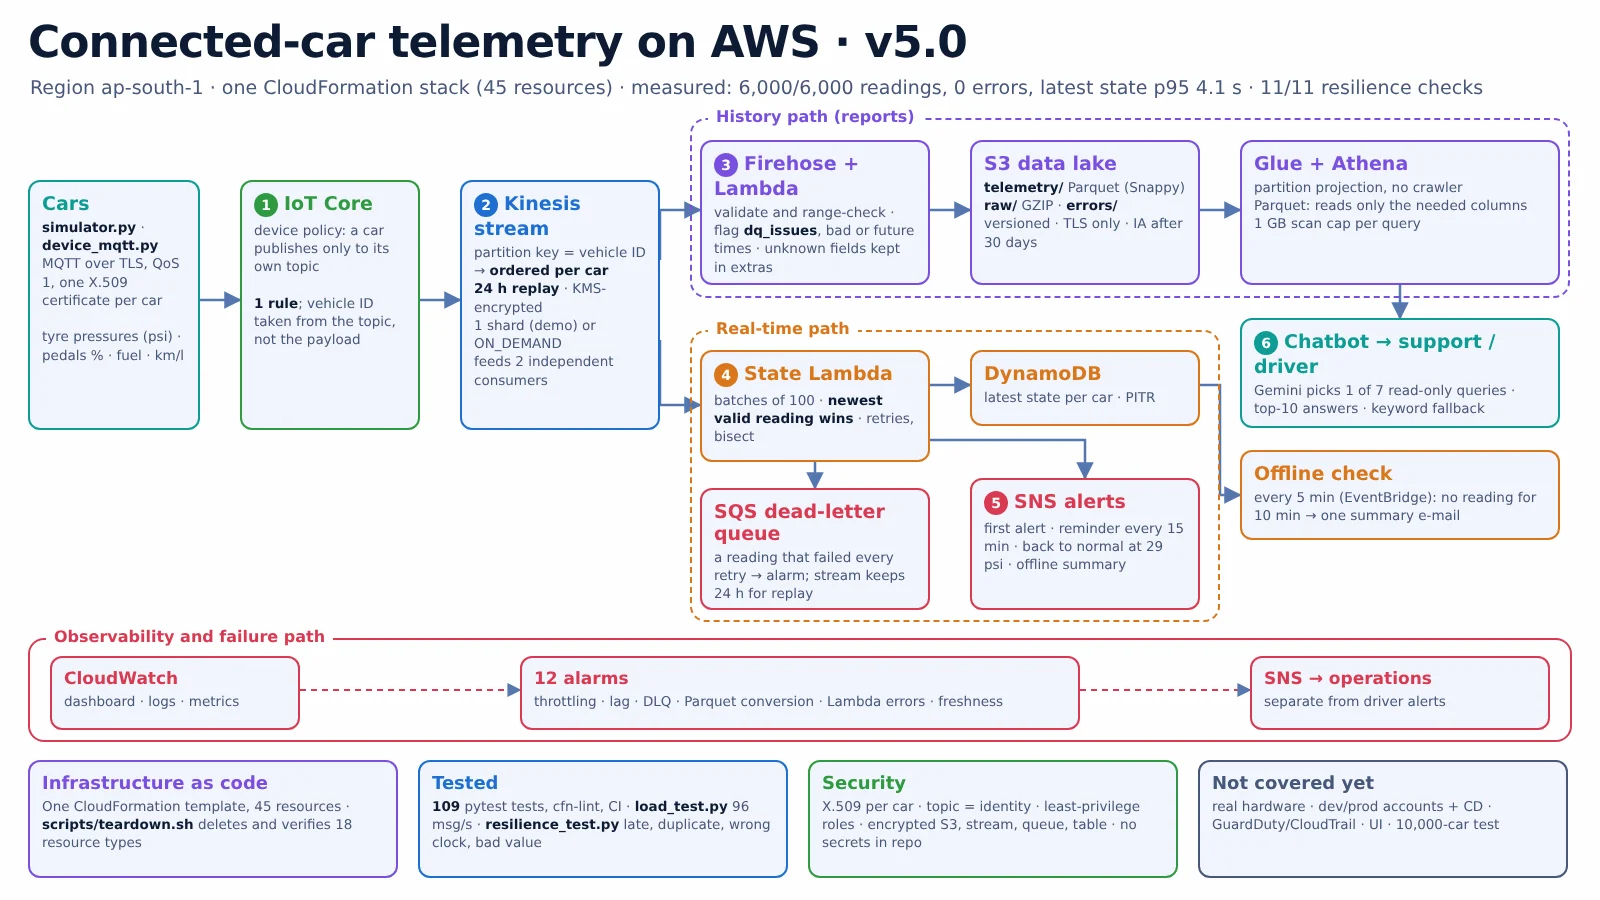
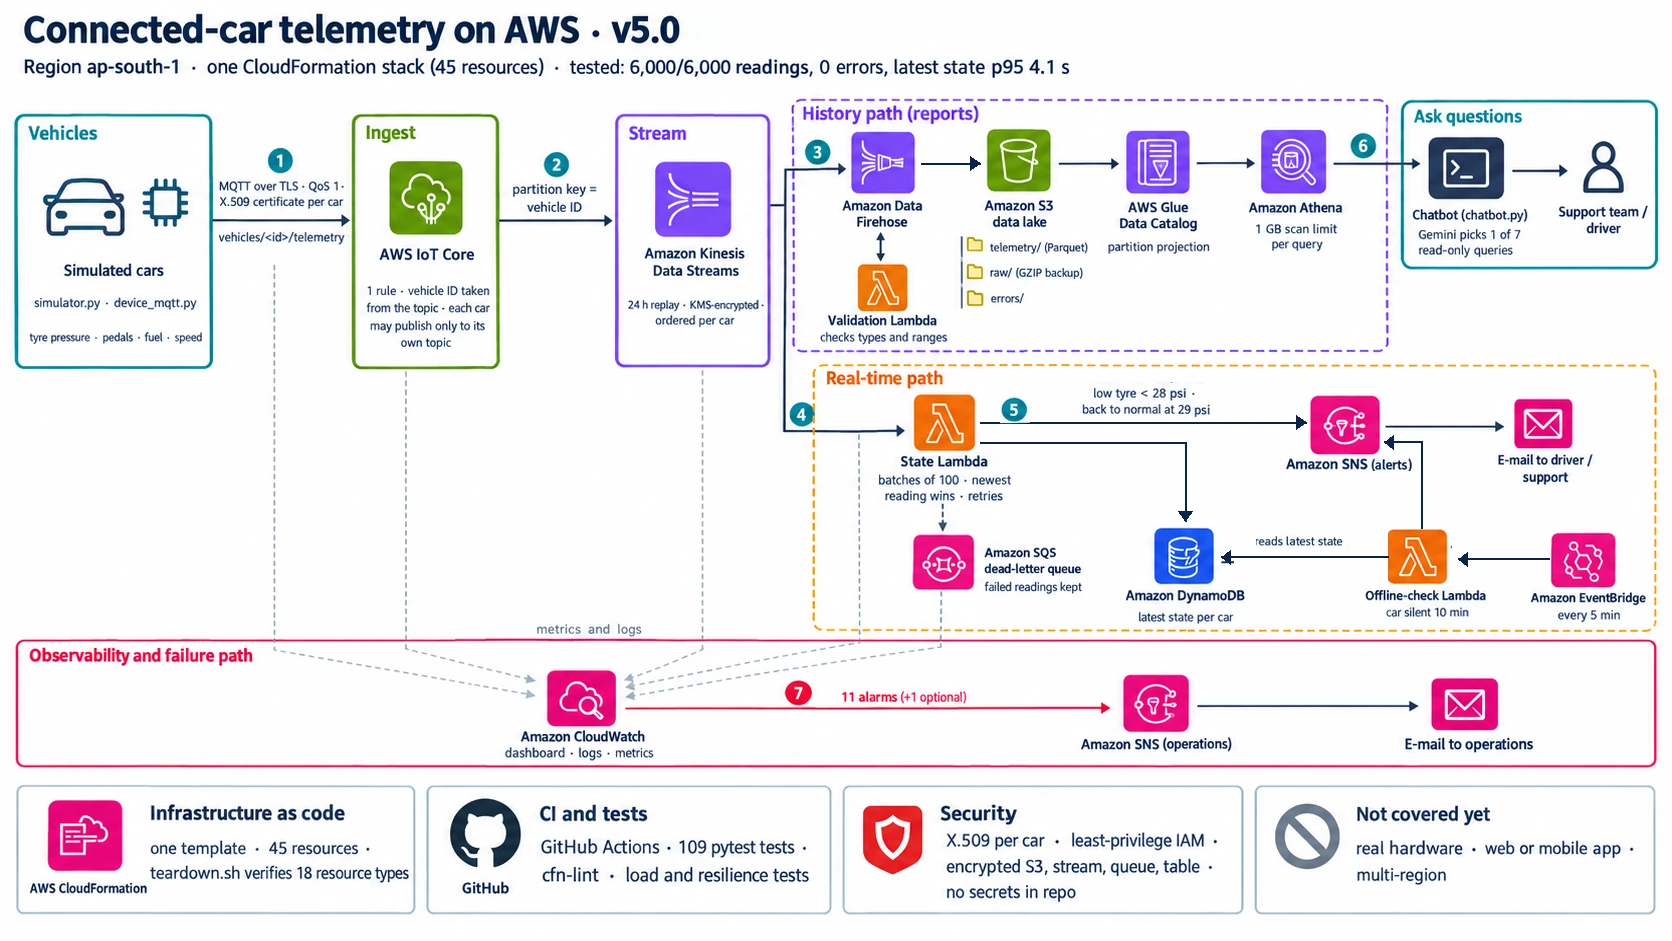
Update architecture diagram
Update architecture diagram for Connected-Car Telemetry on AWS

Changed region(s): [[0.0, 0.0, 1.0, 0.9956], [0.1562, 0.4667, 0.25, 0.4978], [0.0312, 0.4667, 0.125, 0.4978]]

diff --git a/index.html b/index.html
@@ -322,6 +322,26 @@ header.nav.solid { background: rgba(var(--ink-rgb),.72); backdrop-filter: blur(1
 :root[data-theme="light"] .shot figcaption .lt { display: inline; }
 :root[data-theme="light"] .shot figcaption .dk { display: none; }
 :root[data-theme="light"] .shot img { filter: saturate(.95) brightness(.99); }
+/* architecture evolution tile: on hover it cycles v4.1 <-> v5.0 within the current theme */
+.shot.evo img.old { opacity: 0; }
+.shot.evo.show-old img.dk.old { opacity: 1; }
+.shot.evo.show-old img.dk.new { opacity: 0; }
+:root[data-theme="light"] .shot.evo img.old { opacity: 0; }
+:root[data-theme="light"] .shot.evo.show-old img.dk.old { opacity: 0; }
+:root[data-theme="light"] .shot.evo.show-old img.lt.old { opacity: 1; }
+:root[data-theme="light"] .shot.evo.show-old img.lt.new { opacity: 0; }
+.shot.evo img { transition: transform 1.2s var(--ease), filter .6s, opacity .9s var(--ease); }
+.evo-tag { position: absolute; top: 10px; right: 10px; z-index: 2; display: flex; align-items: center; gap: 6px; font-family: var(--mono); font-size: 10.5px; letter-spacing: .04em;
+  background: rgba(var(--ink-rgb),.82); border: 1px solid var(--line); border-radius: 999px; padding: 4px 9px; backdrop-filter: blur(6px); opacity: 0; transition: opacity .4s var(--ease); }
+.evo-tag b { font-weight: 600; opacity: .45; transition: opacity .5s var(--ease), color .5s var(--ease); }
+.evo-tag i { width: 18px; height: 1px; background: currentColor; opacity: .5; position: relative; }
+.evo-tag i::after { content: ""; position: absolute; right: -1px; top: -3px; border: 3.5px solid transparent; border-left-color: currentColor; border-right: 0; }
+.shot.evo:hover .evo-tag { opacity: 1; }
+.shot.evo.show-old .evo-tag .v-old, .shot.evo:not(.show-old) .evo-tag .v-new { opacity: 1; color: var(--gold); }
+:root[data-theme="light"] .shot.evo.show-old .evo-tag .v-old, :root[data-theme="light"] .shot.evo:not(.show-old) .evo-tag .v-new { color: var(--gold-ink); }
+.shot.evo .evo-hint { opacity: .6; }
+.shot.evo:hover .evo-hint { display: none; }
+@media (hover: none) { .shot.evo .evo-hint { display: none; } }
 :root[data-theme="light"] .shot:hover img { filter: none; }
 .shot:hover img { transform: scale(1.04); filter: none; }
 .shot figcaption { position: absolute; left: 10px; bottom: 10px; right: 10px; font-family: var(--mono); font-size: 11px; letter-spacing: .04em;
@@ -832,7 +852,7 @@ html.theme-fade, html.theme-fade *:not(.cursor):not(.cursor-dot):not(.progress):
           <li><span><b>Schema drift without data loss.</b> The validation Lambda types and range-checks fields, keeps unknown fields in <span class="mono">extras</span> and flags problems in <span class="mono">dq_issues</span>.</span></li>
           <li><span><b>A chatbot that can't write SQL.</b> Gemini chooses one of seven read-only queries and phrases the result. Prompt injection has nothing to inject into.</span></li>
           <li><span><b>Built for what real cars do.</b> Late and duplicate readings can't move the state backwards, a wrong device clock is rejected, impossible values are never stored, and alerts use a cool-down and hysteresis instead of one e-mail per reading.</span></li>
-          <li><span><b>Failures are visible.</b> Retries, then a dead-letter queue; 12 alarms for throttling, lag, Parquet conversion and Lambda errors; an offline check e-mails when cars go silent.</span></li>
+          <li><span><b>Failures are visible.</b> Retries, then a dead-letter queue; 11 alarms for throttling, lag, Parquet conversion and Lambda errors; an offline check e-mails when cars go silent.</span></li>
         </ul>
         <div class="describe cmp" data-reveal>
           <div class="bar"><i></i><i></i><i></i><span class="q"><b>COMPARE</b> v4_1 WITH v5_0;</span></div>
@@ -854,7 +874,7 @@ html.theme-fade, html.theme-fade *:not(.cursor):not(.cursor-dot):not(.progress):
         <div class="evidence">
           <div class="cap"><span>Evidence from the live AWS run</span><span>Click to enlarge</span></div>
           <div class="shots">
-            <button class="shot contain pair" data-full="img/tel-arch.webp" data-cap="Architecture v5.0: one CloudFormation stack, 45 resources" data-full-light="img/tel-arch-light.webp"><img class="dk" src="img/tel-arch.webp" alt="Telemetry architecture diagram" loading="lazy" style="background:#06142b"><img class="lt" src="img/tel-arch-light.webp" alt="" aria-hidden="true" loading="lazy" style="background:#fefefe"><figcaption>Architecture</figcaption></button>
+            <button class="shot contain pair evo" data-full="img/tel-arch.webp" data-cap="Architecture v5.0 with AWS icons: one CloudFormation stack, 45 resources" data-full-light="img/tel-arch-light.webp" data-old-full="img/tel-arch-v41.webp" data-old-full-light="img/tel-arch-v41-light.webp" data-old-cap="Architecture v4.1 (before the upgrade): three IoT rules straight to Firehose, SNS and DynamoDB, 30 resources" aria-label="Architecture diagram, v5.0; hover to compare with v4.1"><img class="dk new" src="img/tel-arch.webp" alt="Telemetry architecture diagram v5.0" loading="lazy" style="background:#081932"><img class="lt new" src="img/tel-arch-light.webp" alt="" aria-hidden="true" loading="lazy" style="background:#fefefe"><img class="dk old" src="img/tel-arch-v41.webp" alt="" aria-hidden="true" loading="lazy" style="background:#05142b"><img class="lt old" src="img/tel-arch-v41-light.webp" alt="" aria-hidden="true" loading="lazy" style="background:#fefefe"><span class="evo-tag" aria-hidden="true"><b class="v-old">v4.1</b><i></i><b class="v-new">v5.0</b></span><figcaption><span class="evo-cap">Architecture v5.0</span><span class="evo-hint"> · hover: v4.1 → v5.0</span></figcaption></button>
             <button class="shot" data-full="img/tel-loadtest.webp" data-cap="Load test: 100 cars, 6,000 of 6,000 readings, 0 errors, latest state p95 4.1 s"><img src="img/tel-loadtest-frame.webp" alt="Load test result" loading="lazy"><figcaption>Load test</figcaption></button>
             <button class="shot" data-full="img/tel-resilience.webp" data-cap="Resilience test on AWS: late, duplicate, future-clock and impossible readings, hysteresis: 11 of 11 passed"><img src="img/tel-resilience-frame.webp" alt="Resilience test result" loading="lazy"><figcaption>Resilience test</figcaption></button>
             <button class="shot" data-full="img/tel-alarms.webp" data-cap="CloudWatch: 11 alarms, all OK after the test runs"><img src="img/tel-alarms.webp" alt="CloudWatch alarms" loading="lazy"><figcaption>11 alarms OK</figcaption></button>
@@ -1385,6 +1405,27 @@ html.theme-fade, html.theme-fade *:not(.cursor):not(.cursor-dot):not(.progress):
   new MutationObserver(function () { if (!lb.hidden && lastFocus) lbFill(lastFocus); }).observe(root, { attributes: true, attributeFilter: ['data-theme'] });
   function closeLb() { lb.hidden = true; document.body.style.overflow = ''; if (lastFocus) lastFocus.focus(); }
   document.querySelectorAll('.shot').forEach(function (b) { b.addEventListener('click', function () { openLb(b); }); });
+  // Architecture evolution: while hovered, cross-fade v4.1 <-> v5.0 in the current theme.
+  // The lightbox opens whichever version is showing.
+  document.querySelectorAll('.shot.evo').forEach(function (b) {
+    var t = null, cap = b.querySelector('.evo-cap');
+    var NEW = { full: b.dataset.full, light: b.dataset.fullLight, cap: b.dataset.cap };
+    var OLD = { full: b.dataset.oldFull, light: b.dataset.oldFullLight, cap: b.dataset.oldCap };
+    function show(old) {
+      var v = old ? OLD : NEW;
+      b.classList.toggle('show-old', old);
+      b.dataset.full = v.full; b.dataset.fullLight = v.light; b.dataset.cap = v.cap;
+      cap.textContent = old ? 'Architecture v4.1 (before)' : 'Architecture v5.0 (now)';
+    }
+    function start() {
+      if (t) return;
+      show(true);
+      t = setInterval(function () { show(!b.classList.contains('show-old')); }, 2600);
+    }
+    function stop() { clearInterval(t); t = null; show(false); cap.textContent = 'Architecture v5.0'; }
+    b.addEventListener('mouseenter', start); b.addEventListener('mouseleave', stop);
+    b.addEventListener('click', function () { setTimeout(stop, 0); });
+  });
   document.getElementById('lbClose').addEventListener('click', closeLb);
   lb.addEventListener('click', function (e) { if (e.target === lb) closeLb(); });
   document.addEventListener('keydown', function (e) { if (e.key === 'Escape' && !lb.hidden) closeLb(); });
